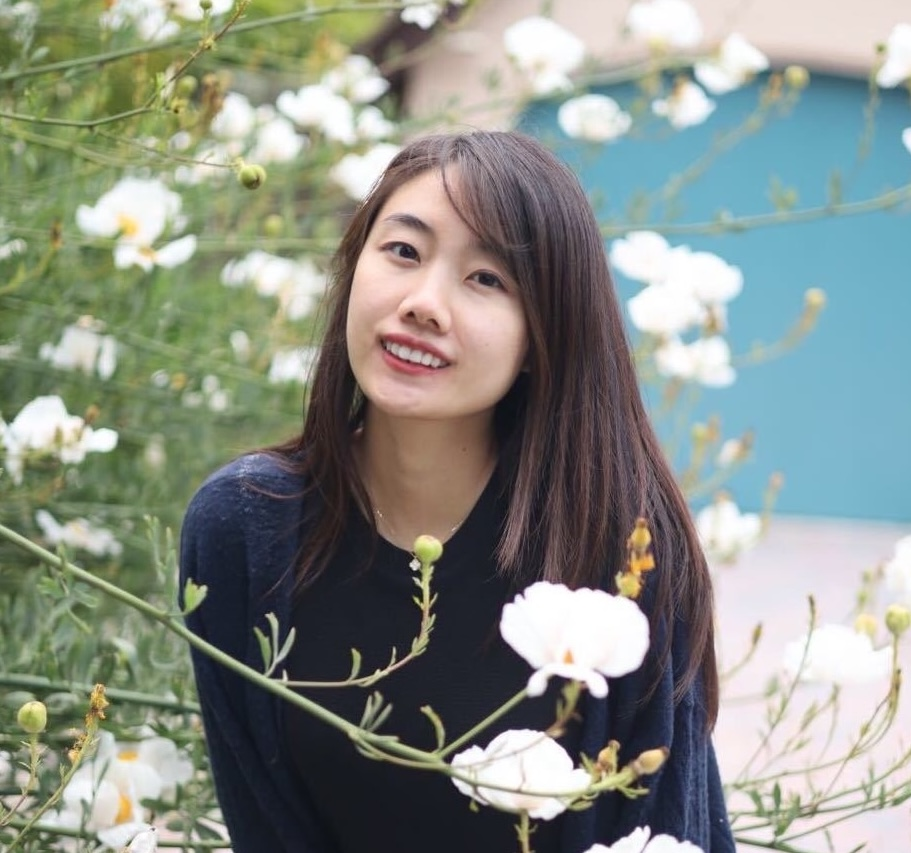
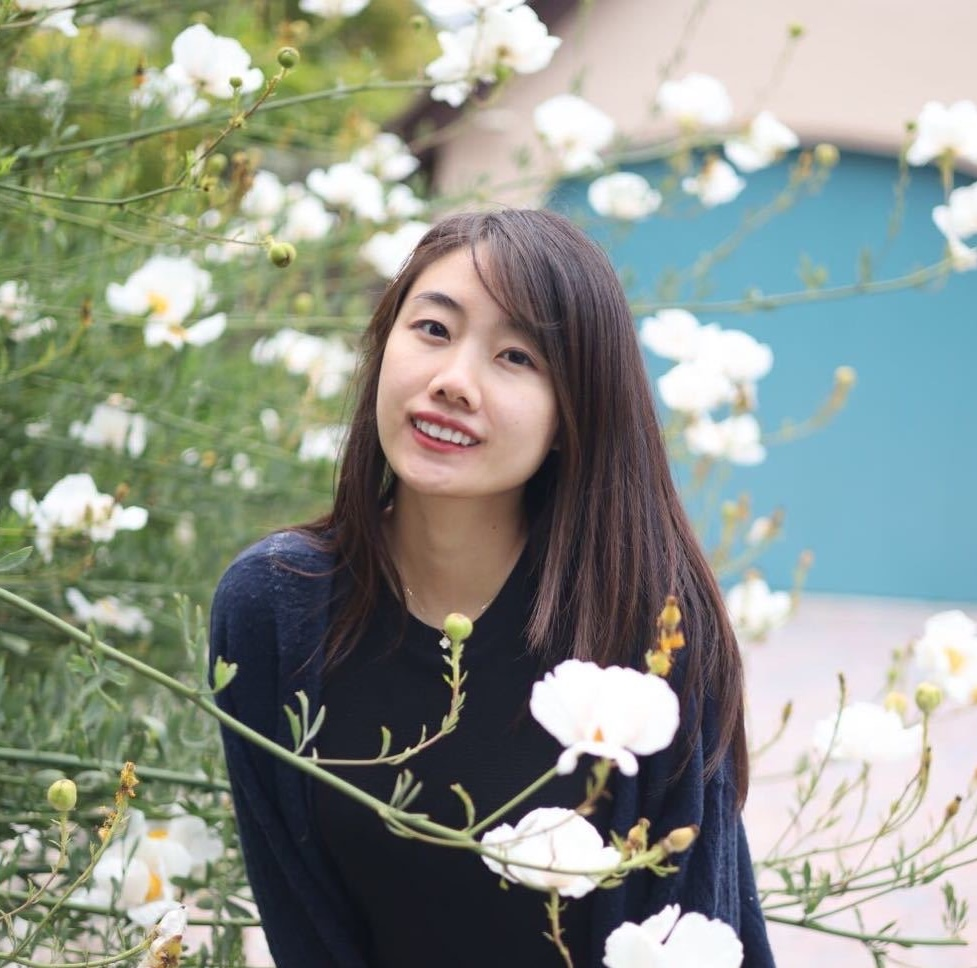
education added

diff --git a/index.html b/index.html
@@ -63,6 +63,14 @@
                 engineering portfolio and am eagerly exploring exciting job
                 opportunities in the tech industry.
               </p>
+              <header class="major">
+                <h2>Education</h2>
+              </header>
+
+              <div class="education">
+                <img src="images/NYU.png" alt="NYU" />
+                <img src="images/AppAcademy.svg" alt="AppAcademy" />
+              </div>
             </div>
             <span class="image"
               ><img src="images/Sarah.JPG" alt="Sarah"
@@ -205,7 +213,7 @@
 
           <div class="project">
             <a href="https://travelshare-by-sarah.onrender.com/">
-              <img src="/images/HelloWorld2.jpg" alt="HelloWorld2"
+              <img src="/images/HelloWorld.jpg" alt="HelloWorld2"
             /></a>
           </div>
 

diff --git a/assets/css/main.css b/assets/css/main.css
@@ -2479,6 +2479,7 @@ input[type="radio"]:focus + label:before {
 .image img {
   border-radius: 8px;
   display: block;
+  aspect-ratio: 1/1;
 }
 
 .image.left,
@@ -2950,6 +2951,13 @@ table.alt tbody tr td {
 
   .features li {
     width: 30%;
+    margin-left: 0;
+    margin-top: 2em;
+  }
+}
+@media screen and (max-width: 600px) {
+  .features li {
+    width: 50%;
     margin-left: 0;
     margin-top: 2em;
   }
@@ -3760,4 +3768,11 @@ body.is-preload #header.alt .logo {
     width: 90%;
     margin-bottom: 2em;
   }
+}
+
+.education img {
+  width: 7em;
+  height: auto;
+  aspect-ratio: 3 / 1;
+  margin-right: 2em;
 }
